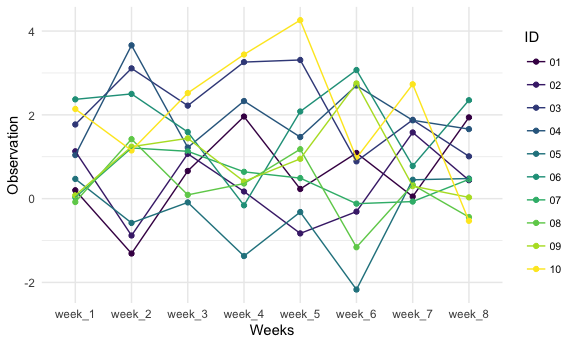
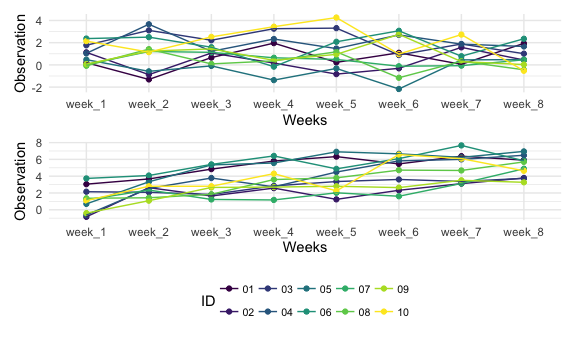
better problem 2 graph

diff --git a/hw5.md b/hw5.md
@@ -179,32 +179,43 @@ over time by experiment arm.
 control_df =  
   filter(study_data, experiment_arm == "con") %>% 
 ggplot( 
-  aes(x = weeks, y = observation, color = ID)) +
+ aes(x = weeks, y = observation, color = ID,)) +
   geom_point(aes(group = ID)) +
   geom_line(aes(group = ID)) +
-  theme(legend.text = element_text(size = 8), legend.spacing.x = unit(0.05, 'cm'), 
-        legend.position = 'right') +
-   xlab("Weeks") + ylab("Observation") +
-   scale_colour_discrete(name = "ID")
+  theme(legend.position = 'none') +
+   xlab("Weeks") + ylab("Observation") 
 
-control_df
-```
 
-<img src="hw5_files/figure-gfm/unnamed-chunk-8-1.png" width="90%" />
-
-``` r
 exp_df =  
   filter(study_data, experiment_arm == "exp") %>% 
 ggplot( 
   aes(x = weeks, y = observation, color = ID)) +
   geom_point(aes(group = ID)) +
   geom_line(aes(group = ID)) +
-  theme(legend.text = element_text(size = 8), legend.spacing.x = unit(0.05, 'cm'), 
-        legend.position = 'right') +
+  theme(legend.text = element_text(size = 8), legend.spacing.x = unit(0.05, 'cm'),
+        legend.position = 'bottom') +
    xlab("Weeks") + ylab("Observation") +
    scale_colour_discrete(name = "ID")
 
-exp_df
+control_df/exp_df
 ```
 
-<img src="hw5_files/figure-gfm/unnamed-chunk-8-2.png" width="90%" />
+<img src="hw5_files/figure-gfm/unnamed-chunk-8-1.png" width="90%" />
+
+## Problem 3
+
+``` r
+set.seed(10)
+
+iris_with_missing = iris %>% 
+  map_df(~replace(.x, sample(1:150, 20), NA)) %>%
+  mutate(Species = as.character(Species))
+
+missing_values_function = function(iris_df) {
+ 
+   
+
+return(iris_df)
+
+}
+```
